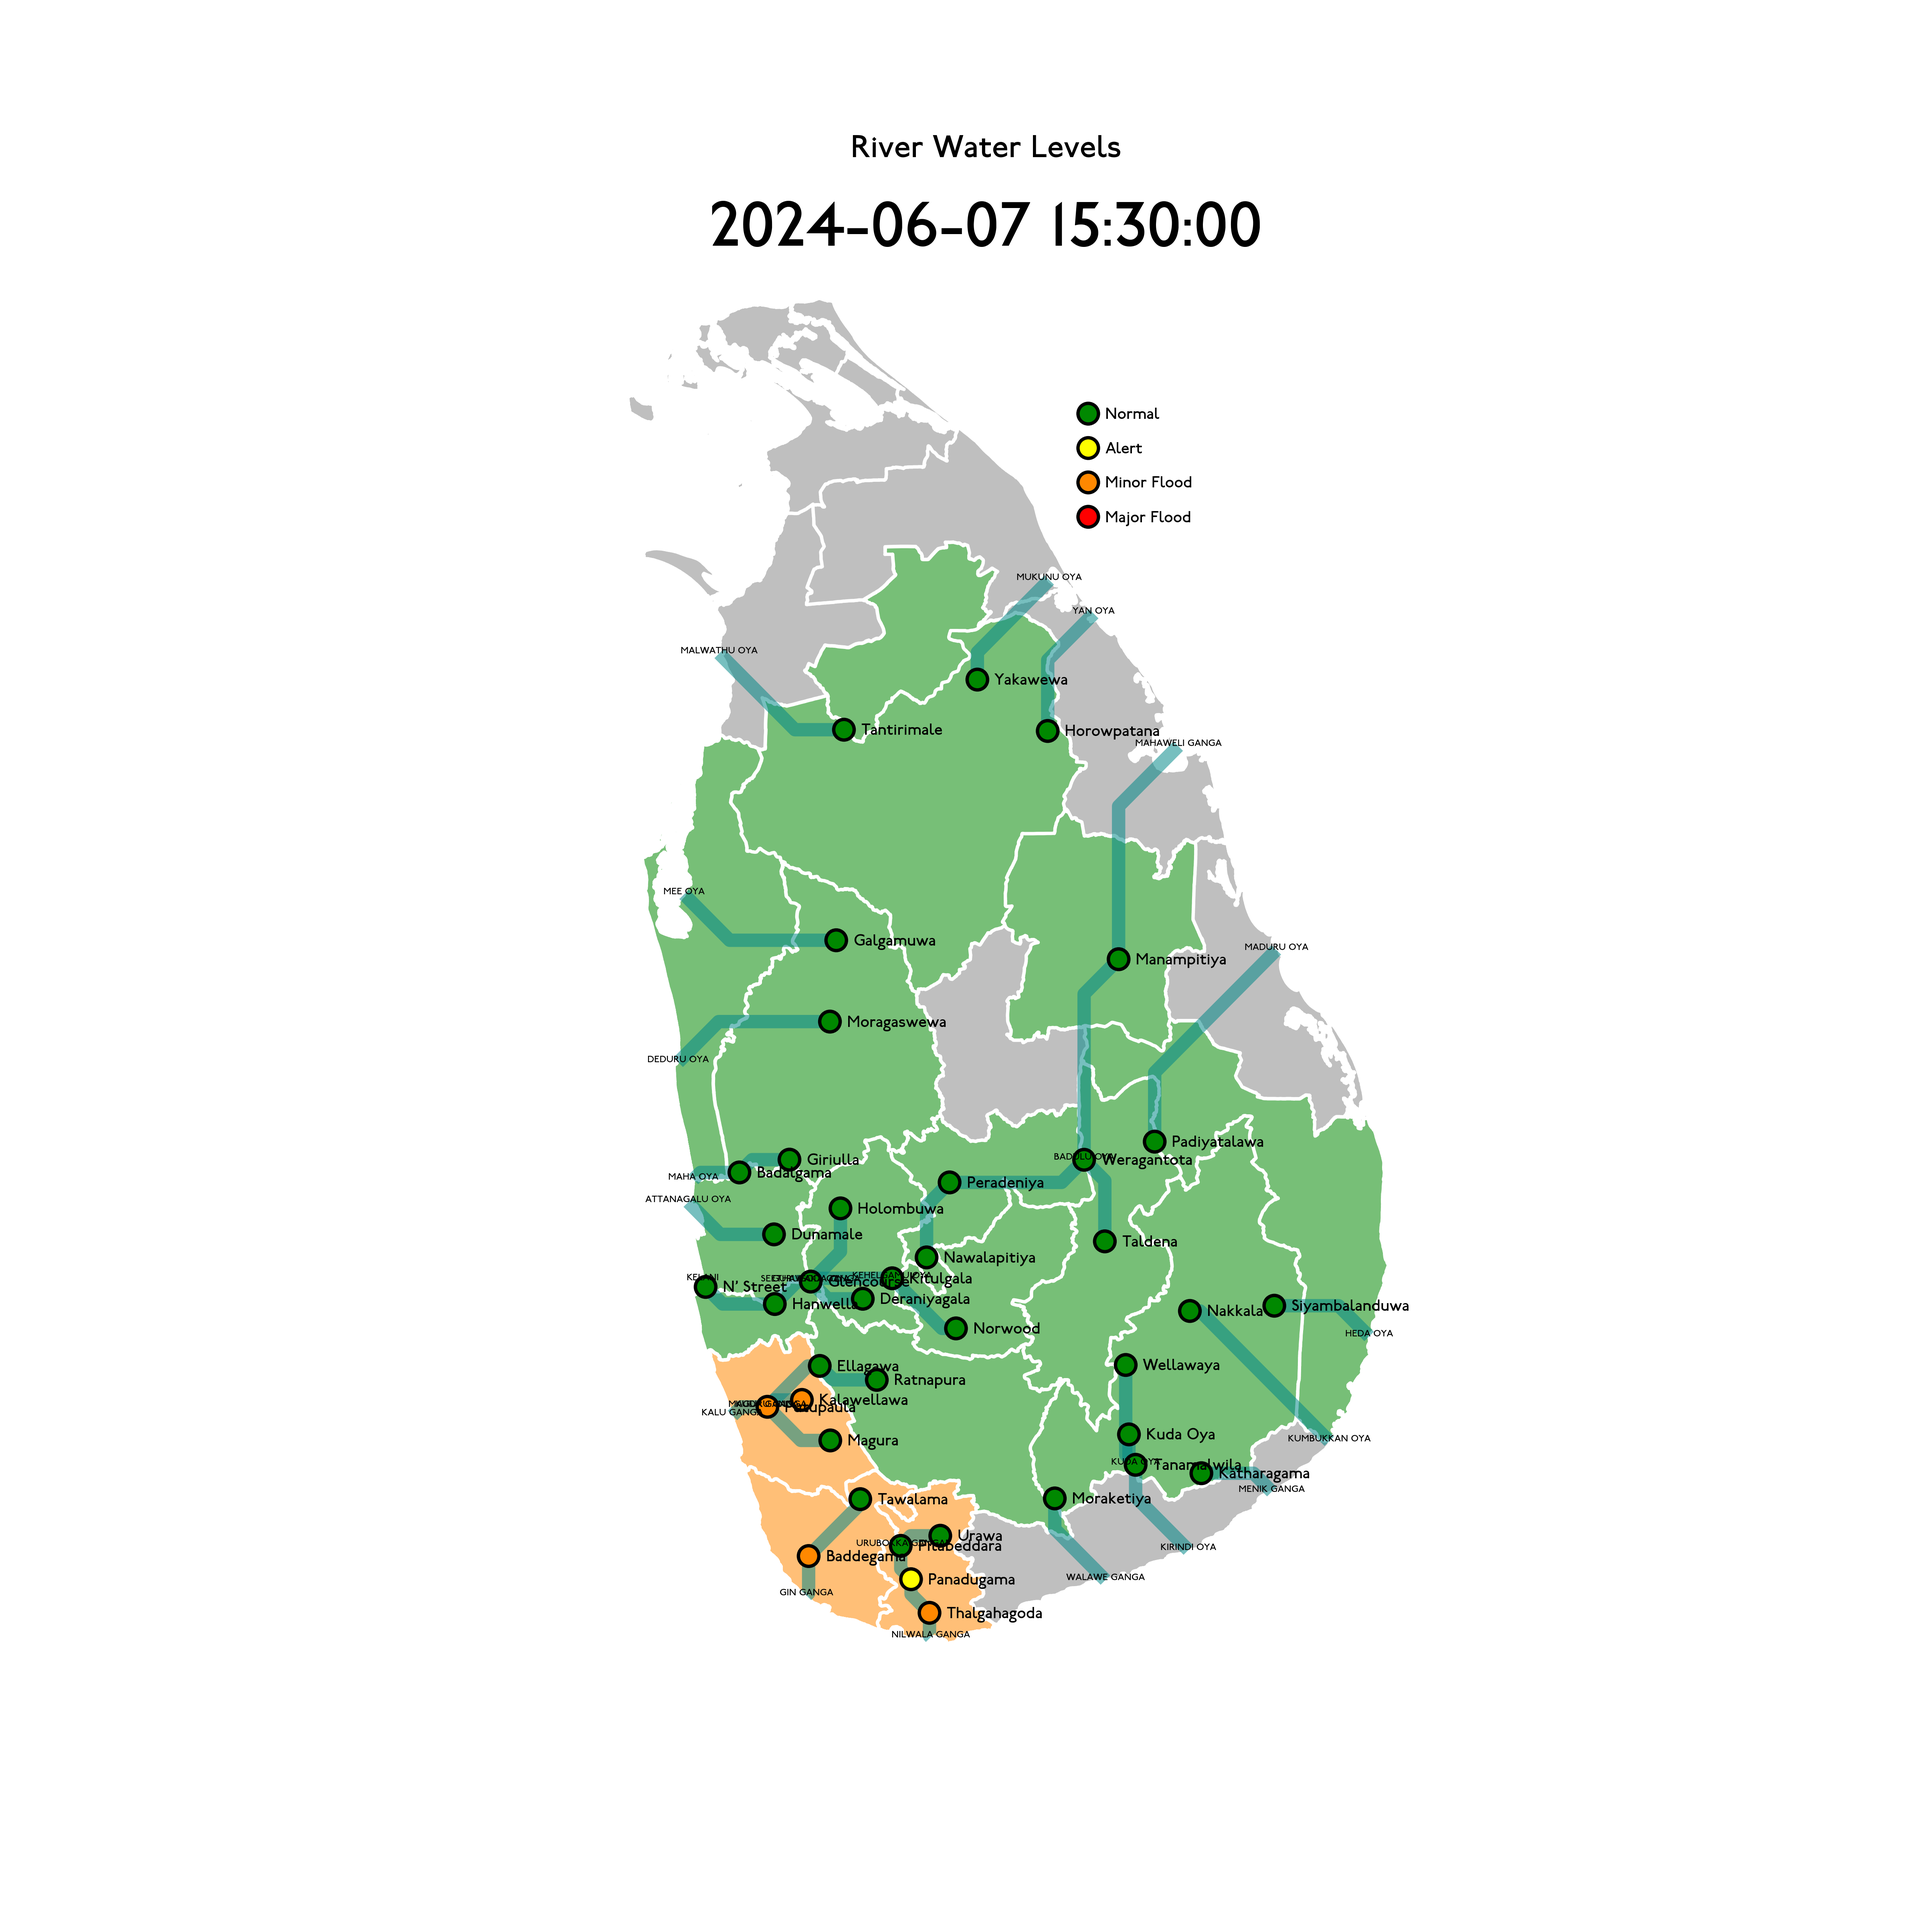
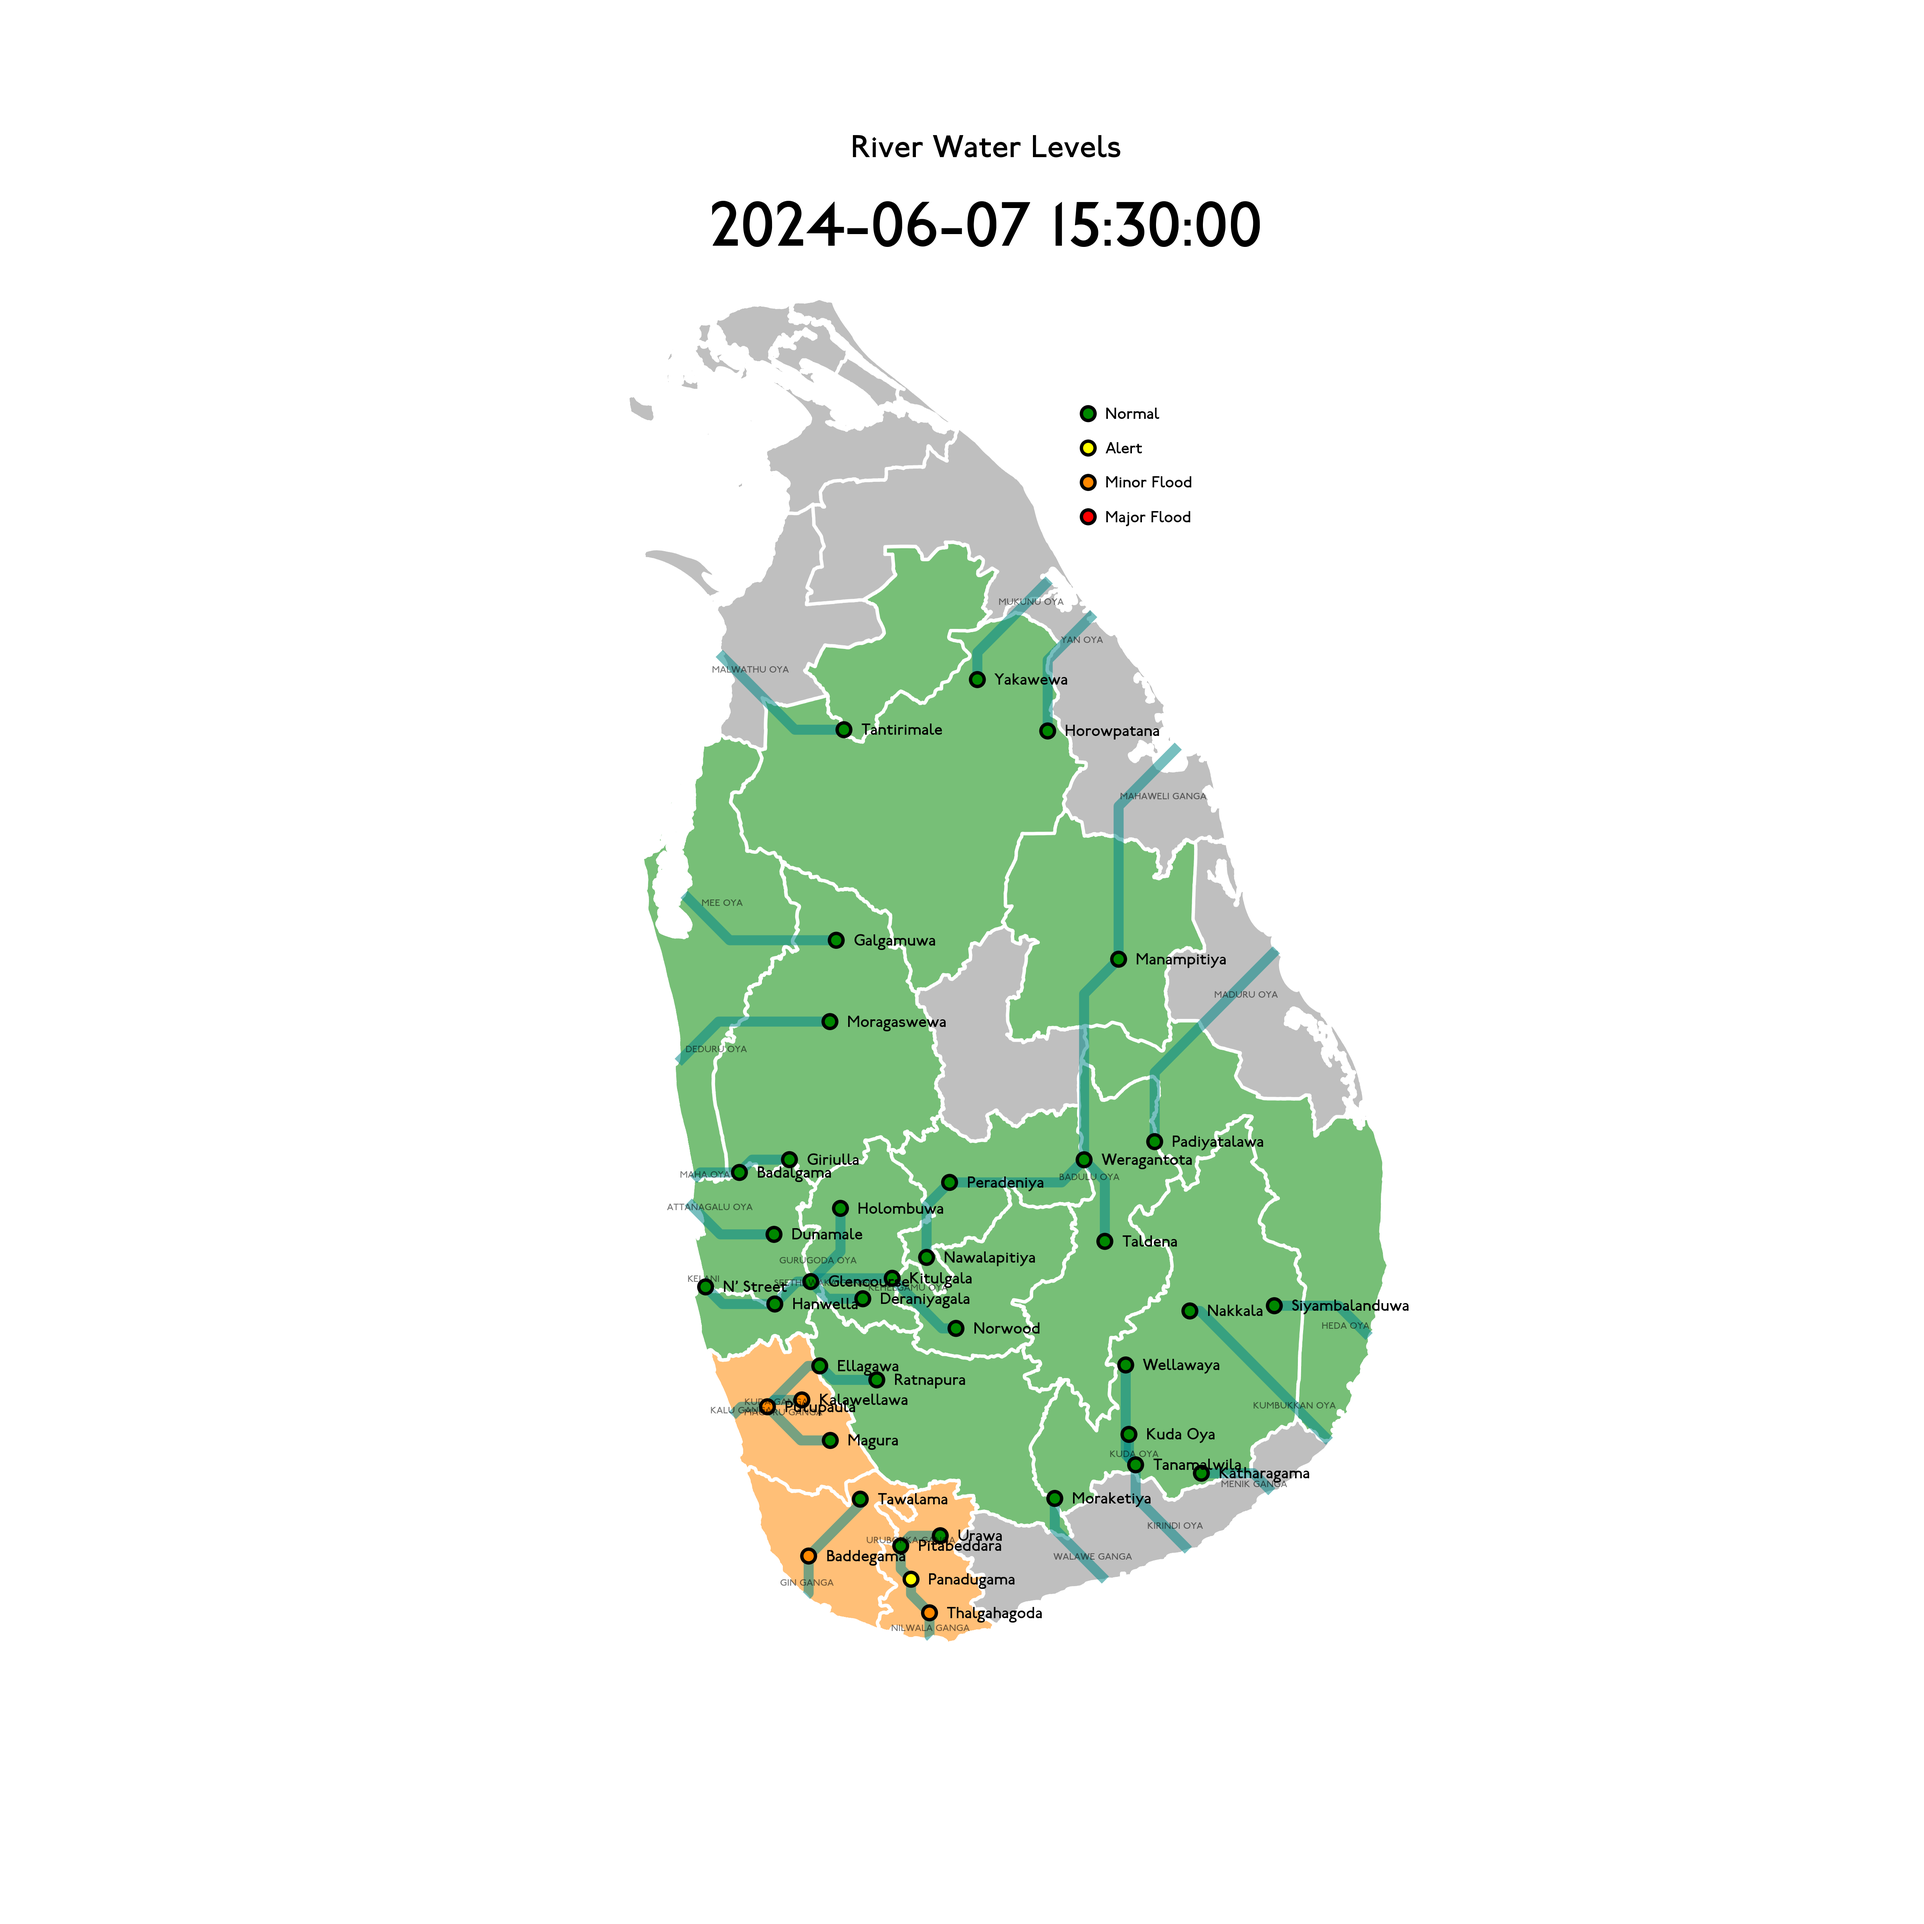
various

diff --git a/src/dmc/reports/RiverWaterLevelMap.py b/src/dmc/reports/RiverWaterLevelMap.py
@@ -16,7 +16,8 @@ FONT = FontProperties(fname=os.path.join('fonts', 'font.ttf'))
 
 class RiverWaterLevelMap:
     ENT_TYPE = EntType.DISTRICT
-    CIRCLE_RADIUS = 0.03
+    RIVER_LINE_WIDTH = 3
+    CIRCLE_RADIUS = 0.02
 
     @property
     def image_path(self):
@@ -54,7 +55,7 @@ class RiverWaterLevelMap:
                 prev_point = point
             lines.append(line)
 
-        lc = mc.LineCollection(lines, colors='#0888', linewidths=4)
+        lc = mc.LineCollection(lines, colors='#0888', linewidths=RiverWaterLevelMap.RIVER_LINE_WIDTH)
         lc.set_zorder(2)
         ax = plt.gca()
         ax.add_collection(lc)
@@ -67,7 +68,7 @@ class RiverWaterLevelMap:
             if not station0 or not station1:
                 continue
 
-            k = 1
+            k = 0.75
             lng = station0.latLng.lng * k + station1.latLng.lng * (1 - k)
             lat = station0.latLng.lat * k + station1.latLng.lat * (1 - k)
             text = river.upper()
@@ -79,6 +80,7 @@ class RiverWaterLevelMap:
                 horizontalalignment='center',
                 fontstyle='italic',
                 fontproperties=FONT,
+                color="#0008",
             )
 
     @staticmethod
